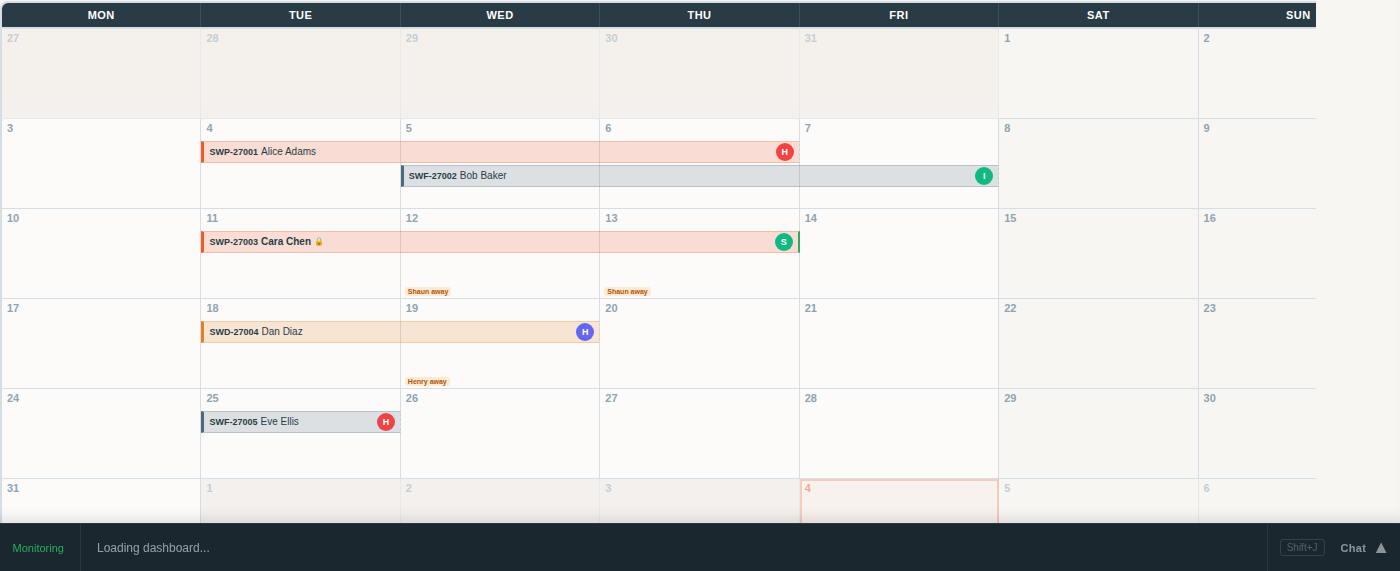
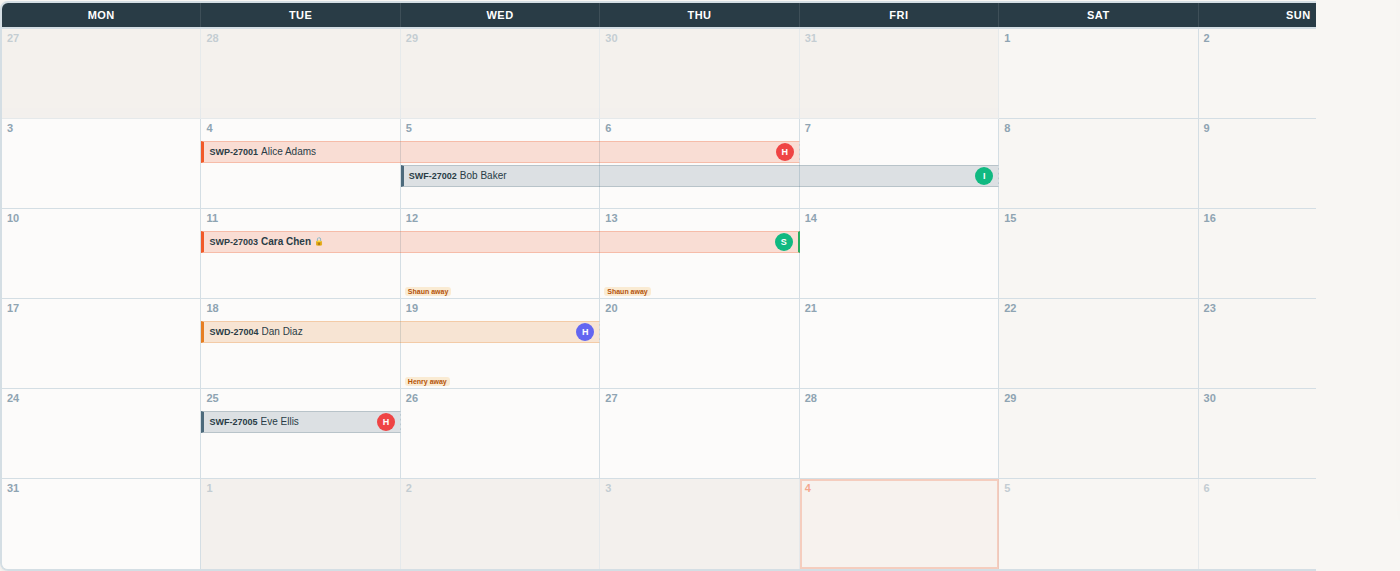
no-mistakes(review): suppress last-row rule; make calendar shot harness self-serving

Changed region(s): [[0.0, 0.8932, 1.0, 1.0]]

diff --git a/scripts/cal-month-border-shot.js b/scripts/cal-month-border-shot.js
@@ -1,10 +1,23 @@
-// Offline screenshot harness for the Ops calendar MONTH range in both views
-// (Crew swimlane + Schedule). Renders from a fixed fixture — no network.
-// Usage: node scripts/cal-month-border-shot.js <outDir>
+#!/usr/bin/env node
+// Offline screenshot harness for the Ops calendar day-cell rules, in both views
+// (Crew swimlane + Schedule) and any range mode. Serves ops.html from disk on its
+// own port and aborts every off-origin request, so nothing is fetched.
+// Usage: node scripts/cal-month-border-shot.js [outDir] [rangeMode]
+//   rangeMode: month (default) | 2w | 1w
 const path = require('path');
+const fs = require('fs');
+const { spawn } = require('child_process');
 const { chromium } = require('@playwright/test');
+const { revealOpsStaticFixture } = require('../tests/helpers/ops-auth.js');
 
-const OUT = process.argv[2] || 'docs/evidence/cal-month-borders';
+const OUT = process.argv[2] || 'docs/evidence/ops-calendar-day-borders-2026-09-04/after';
+const RANGE = process.argv[3] || 'month';
+const PORT = 4196;
+
+if (!['month', '2w', '1w'].includes(RANGE)) {
+  console.error('usage: node scripts/cal-month-border-shot.js [outDir] [month|2w|1w]');
+  process.exit(2);
+}
 
 function ev(o) {
   return Object.assign({
@@ -46,15 +59,43 @@ const AVAIL = {
   'Henry_2026-08-19': { status: 'leave' }, 'Isaac_2026-08-20': { status: 'unavailable' },
 };
 
+function startServer() {
+  const proc = spawn('python3', ['-m', 'http.server', String(PORT), '--bind', '127.0.0.1'], {
+    cwd: path.join(__dirname, '..'),
+    stdio: 'ignore',
+  });
+  proc.on('exit', () => { proc._exited = true; });
+  return proc;
+}
+
+// A server we did NOT spawn answering on this port would serve a DIFFERENT
+// checkout's ops.html — the shots would then prove nothing about this tree. So
+// bail out the moment our own python exits (port already bound) rather than
+// screenshotting whatever else is listening.
+async function waitForServer(proc, url, timeoutMs) {
+  const deadline = Date.now() + timeoutMs;
+  while (Date.now() < deadline) {
+    if (proc._exited) {
+      throw new Error(`static server exited — port ${PORT} is already in use by another process`);
+    }
+    try {
+      const res = await fetch(url);
+      if (res.ok) return;
+    } catch (_) { /* not up yet */ }
+    await new Promise((r) => setTimeout(r, 150));
+  }
+  throw new Error('server did not start: ' + url);
+}
+
 async function shot(page, view, file) {
-  await page.evaluate(({ view, EVENTS, CREW, LEAVE, AVAIL }) => {
+  await page.evaluate(({ view, range, EVENTS, CREW, LEAVE, AVAIL }) => {
     const container = document.getElementById('calendarBody');
     for (let n = container; n && n !== document.body; n = n.parentElement) {
       if (getComputedStyle(n).display === 'none') n.style.display = 'block';
     }
     container.style.width = '1400px';
     window._calDate = new Date('2026-08-03T00:00:00');
-    window._calRangeMode = 'month';
+    window._calRangeMode = range;
     window._calViewMode = view;
     window._calEvents = EVENTS;
     window._crewList = CREW;
@@ -65,26 +106,43 @@ async function shot(page, view, file) {
     window._calDivFilter = 'all';
     window._calDivFilters = ['all'];
     window._calEventFilters = { jobs: true, meetings: true, holidays: true, leave: true, reminders: true };
-    const range = window.getCalRange();
-    if (view === 'schedule') window.renderScheduleView(container, range);
-    else window.renderSwimlaneView(container, range);
-  }, { view, EVENTS, CREW, LEAVE, AVAIL });
+    const calRange = window.getCalRange();
+    if (view === 'schedule') window.renderScheduleView(container, calRange);
+    else window.renderSwimlaneView(container, calRange);
+  }, { view, range: RANGE, EVENTS, CREW, LEAVE, AVAIL });
   const el = await page.$('#calendarBody');
   await el.screenshot({ path: path.join(OUT, file) });
 }
 
-(async () => {
-  require('fs').mkdirSync(OUT, { recursive: true });
-  const browser = await chromium.launch();
-  const page = await browser.newPage({ viewport: { width: 1500, height: 1200 } });
-  await page.goto('http://127.0.0.1:4173/ops.html');
-  await page.waitForFunction(() => typeof window.renderScheduleView === 'function');
-  await page.evaluate(() => {
-    const g = document.getElementById('swAuthGate'); if (g) g.remove();
-    const s = document.getElementById('swAuthGateStyle'); if (s) s.remove();
-  });
-  await shot(page, 'schedule', 'month-schedule.png');
-  await shot(page, 'crew', 'month-crew-swimlane.png');
-  await browser.close();
-  console.log('wrote to ' + OUT);
-})();
+async function main() {
+  fs.mkdirSync(OUT, { recursive: true });
+  const server = startServer();
+  const base = `http://127.0.0.1:${PORT}`;
+  let browser;
+  try {
+    await waitForServer(server, `${base}/ops.html`, 15000);
+    browser = await chromium.launch();
+    const page = await browser.newPage({ viewport: { width: 1500, height: 1200 } });
+    // Read-only: abort every network call that is not this local static server.
+    await page.route('**/*', (route) => {
+      const url = route.request().url();
+      if (url.startsWith(base)) return route.continue();
+      return route.abort();
+    });
+    await page.goto(`${base}/ops.html`, { waitUntil: 'domcontentloaded' });
+    await page.waitForFunction(() => typeof window.renderScheduleView === 'function');
+    await revealOpsStaticFixture(page);
+    // The Jarvis ambient bar is fixed to the viewport bottom and paints over the
+    // last ~48px of an element shot — i.e. over the grid's own bottom edge, which
+    // is exactly where the last week row's rule is judged. Hide it for the shot.
+    await page.addStyleTag({ content: '#jarvisBar { display: none !important; }' });
+    await shot(page, 'schedule', `${RANGE}-schedule.png`);
+    await shot(page, 'crew', `${RANGE}-crew-swimlane.png`);
+  } finally {
+    if (browser) await browser.close();
+    server.kill();
+  }
+  console.log(`wrote ${RANGE} shots to ` + OUT);
+}
+
+main().catch((err) => { console.error(err); process.exit(1); });

diff --git a/ops.html b/ops.html
@@ -757,8 +757,10 @@
       position: relative;
     }
     .cal-schedule-week + .cal-schedule-week { border-top: 1px solid var(--sw-border); }
-    /* Only the header row is an adjacent sibling of a week — every later pair
-       has the bar-overlay div between them, so the horizontal day-cell rule is
+    /* That selector reaches only the FIRST week row, because the header is itself
+       a .cal-schedule-week and every later pair has the bar-overlay div between
+       them. (The header's own separator is that rule plus the header div's inline
+       border-bottom — two stacked 1px lines.) So the horizontal day-cell rule is
        drawn by the cell itself (border-bottom below), not by that selector. */
     .cal-schedule-header {
       background: var(--sw-dark); color: #fff; font-size: 11px; font-weight: 600;
@@ -775,6 +777,11 @@
       border-right: 1px solid var(--sw-border); border-bottom: 1px solid var(--sw-border);
     }
     .cal-schedule-cell:last-child { border-right: 0; }
+    /* Last week row: its cells sit directly inside the grid's own 2px border, so
+       a bottom rule there separates nothing and thickens that one edge. The week
+       is :nth-last-child(2) — each week div is followed by its bar-overlay div,
+       so no week is ever the grid's :last-child. */
+    .cal-schedule-grid > .cal-schedule-week:nth-last-child(2) .cal-schedule-cell { border-bottom: 0; }
     .cal-schedule-cell.outside { background: var(--sw-warm-200); opacity: 0.5; }
     .cal-schedule-cell.today { outline: 2.5px solid rgba(241,90,41,0.5); outline-offset: -2px; background: rgba(241,90,41,0.04); }
     .cal-schedule-cell.weekend { background: var(--sw-bg); }

diff --git a/docs/evidence/ops-calendar-day-borders-2026-09-04/README.md b/docs/evidence/ops-calendar-day-borders-2026-09-04/README.md
@@ -1,0 +1,86 @@
+# Ops calendar day-cell rules — `ops.html` (2026-09-04)
+
+The Schedule view's month grid drew a vertical rule between day columns but no
+horizontal rule between week rows, so job bars, "Shaun away" strips and multi-day
+cards ran across the grid with nothing to say which day a card sat on.
+
+The between-week line was styled with `.cal-schedule-week + .cal-schedule-week
+{ border-top: … }`, but `renderScheduleView` emits a bar-overlay div after EVERY
+week, so two week divs are never adjacent siblings — that selector only ever
+reached the first week row (the header div is itself a `.cal-schedule-week`). In
+a month range that left six rows of day cells with zero horizontal separation.
+
+## What shipped
+
+- `.cal-schedule-cell` gains `border-bottom: 1px solid var(--sw-border)` beside
+  its existing `border-right`, so the rule is drawn by the CELL — the thing that
+  must be delineated — rather than by a sibling selector the overlay breaks.
+- `.cal-schedule-grid > .cal-schedule-week:nth-last-child(2) .cal-schedule-cell`
+  drops that bottom rule on the LAST week row, whose cells sit directly inside
+  the grid's own 2px border; a rule there separates nothing and would read as a
+  3px bottom edge against 2px on the other three sides. It is `:nth-last-child(2)`
+  and not `:last-child` because each week div is followed by its bar-overlay div,
+  so no week is ever the grid's last child.
+- The adjacent-sibling selector is deliberately KEPT — it still draws the header
+  separator, and removing it shrinks the grid by 1px.
+- The Crew (swimlane) view is deliberately untouched: it already rules its cells
+  through the grid container's `gap: 1px` over a `var(--sw-border)` background.
+
+Geometry is unchanged, which is the load-bearing claim: cells are
+`box-sizing: border-box` with a `min-height`, so the border consumes content box,
+not outer box.
+
+## Regenerating
+
+```
+npm ci
+npx playwright install chromium
+node scripts/cal-month-border-shot.js docs/evidence/ops-calendar-day-borders-2026-09-04/after month
+```
+
+The out dir and the range mode are both optional; they default to
+`docs/evidence/ops-calendar-day-borders-2026-09-04/after` and `month`. Pass `2w`
+or `1w` as the second argument to re-check the other two ranges, which share the
+`.cal-schedule-cell` class and gain the same rule:
+
+```
+node scripts/cal-month-border-shot.js /tmp/cal-2w 2w
+node scripts/cal-month-border-shot.js /tmp/cal-1w 1w
+```
+
+The harness spawns its own `python3 -m http.server` on 127.0.0.1, aborts every
+request that is not that local origin, and refuses to run if the port is already
+bound by someone else's server (which would serve a different checkout's
+`ops.html`). Nothing is fetched — no Supabase, no CDN.
+
+## The fixture
+
+`scripts/cal-month-border-shot.js` carries the fixture inline and renders the
+SHIPPED `renderScheduleView` / `renderSwimlaneView` against it. August 2026,
+week beginning Mon 3 Aug, with:
+
+- five assignments across patio / fencing / decking, four of them multi-day and
+  one (Cara Chen, 11–13 Aug) `confirmed` so the confirmed bar styling is covered;
+- crew leave producing the "Shaun away" (12–13 Aug) and "Henry away" (19 Aug)
+  day strips, plus one `unavailable` crew day;
+- invented names, suburb and street only — no client data.
+
+## The shots
+
+`before/` is the genuine pre-fix baseline, captured from the unmodified code, and
+has NOT been regenerated. `after/` is regenerated from the shipped code.
+
+- `before/month-schedule.png` — month Schedule view with NO horizontal rules: a
+  flat white field from the header line straight down. Its bottom ~48px are
+  covered by the fixed Jarvis ambient bar, because the harness did not yet hide
+  that chrome when this baseline was taken.
+- `after/month-schedule.png` — the same render with a 1px `var(--sw-border)` rule
+  between every pair of week rows, and the grid's bottom edge still a single 2px
+  border (no rule stacked inside it). The Jarvis bar is now hidden for the shot,
+  so this pair differs in that chrome as well as in the rules; the region the fix
+  is judged on — the week rules — is in the shared area both shots cover.
+- `before/month-crew-swimlane.png` / `after/month-crew-swimlane.png` — the Crew
+  month view, byte-identical, proving it was correctly left alone.
+
+Both pairs are 1400×571 (Schedule) and 1400×375 (Crew) before and after: the
+image dimensions are the geometry check made visible.
